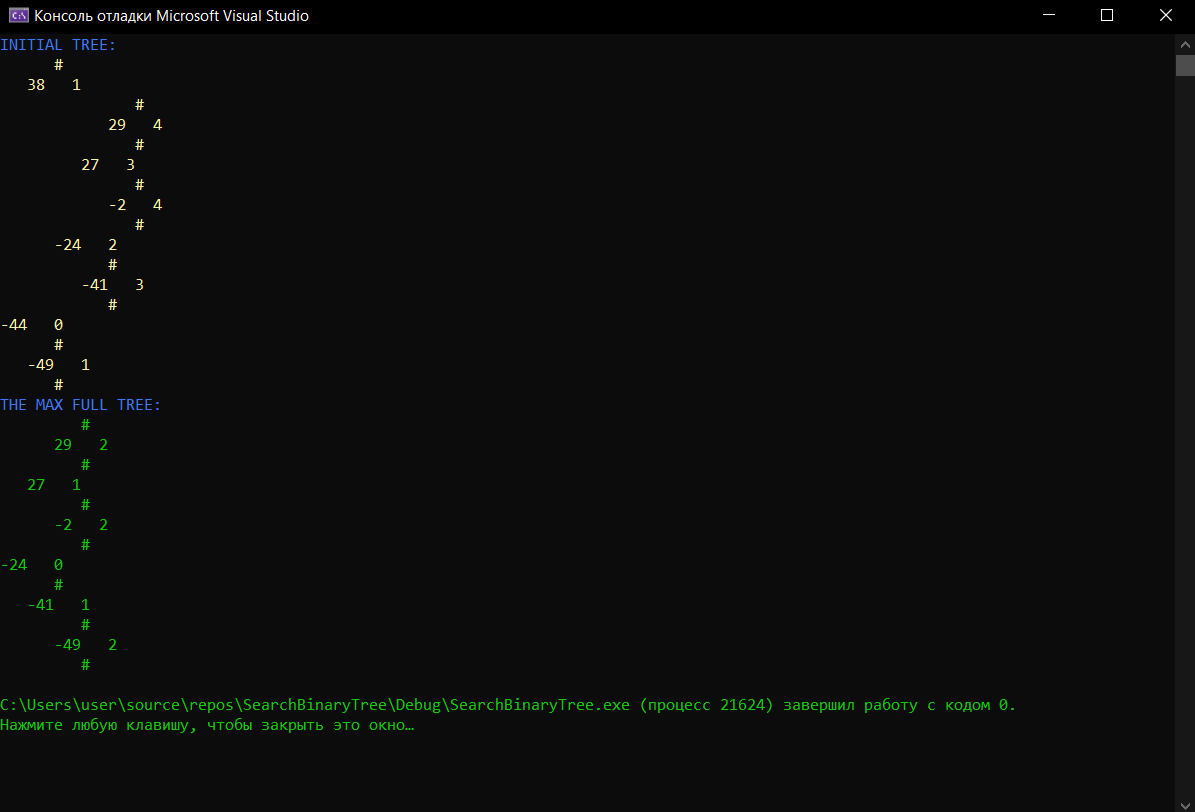
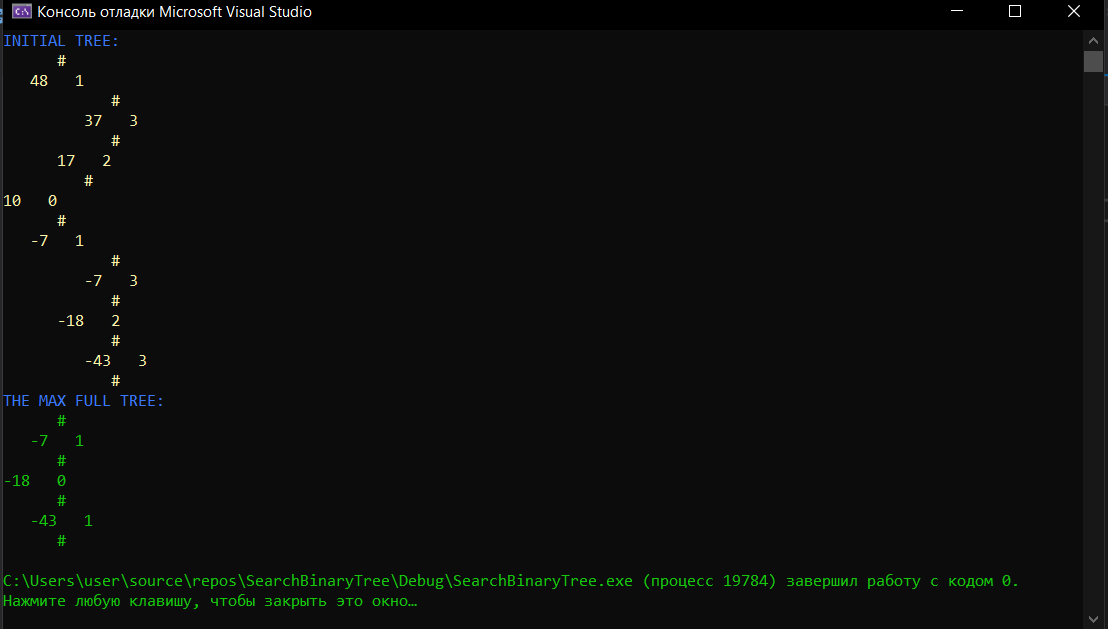
UPDATE

diff --git a/HomeTask with Search in Binary Tree/Code/tree.cpp b/HomeTask with Search in Binary Tree/Code/tree.cpp
@@ -73,14 +73,9 @@ void find_the_full_tree(Node* root, int* tree_size, int* max_tree_size, int* tre
     if (root)
     {
         find_the_full_tree(root->left, tree_size, max_tree_size, tree_values, max_tree_values);
-        find_the_full_tree(root->right, tree_size, max_tree_size, tree_values, max_tree_values);
-
-        // If you find a node in the correct tree
-        if (root->correct == CORRECT)
-            tree_values[(*tree_size)++] = root->num;
 
         // Getting out of the correct tree and saving it
-        else if (root->correct == UNCORRECT)
+        if (root->correct == UNCORRECT)
         {
             if (*max_tree_size < *tree_size)
             {
@@ -90,6 +85,11 @@ void find_the_full_tree(Node* root, int* tree_size, int* max_tree_size, int* tre
             }
             *tree_size = 0;
         }
+        find_the_full_tree(root->right, tree_size, max_tree_size, tree_values, max_tree_values);
+
+        // If you find a node in the correct tree
+        if (root->correct == CORRECT)
+            tree_values[(*tree_size)++] = root->num;
     }
 }
 
